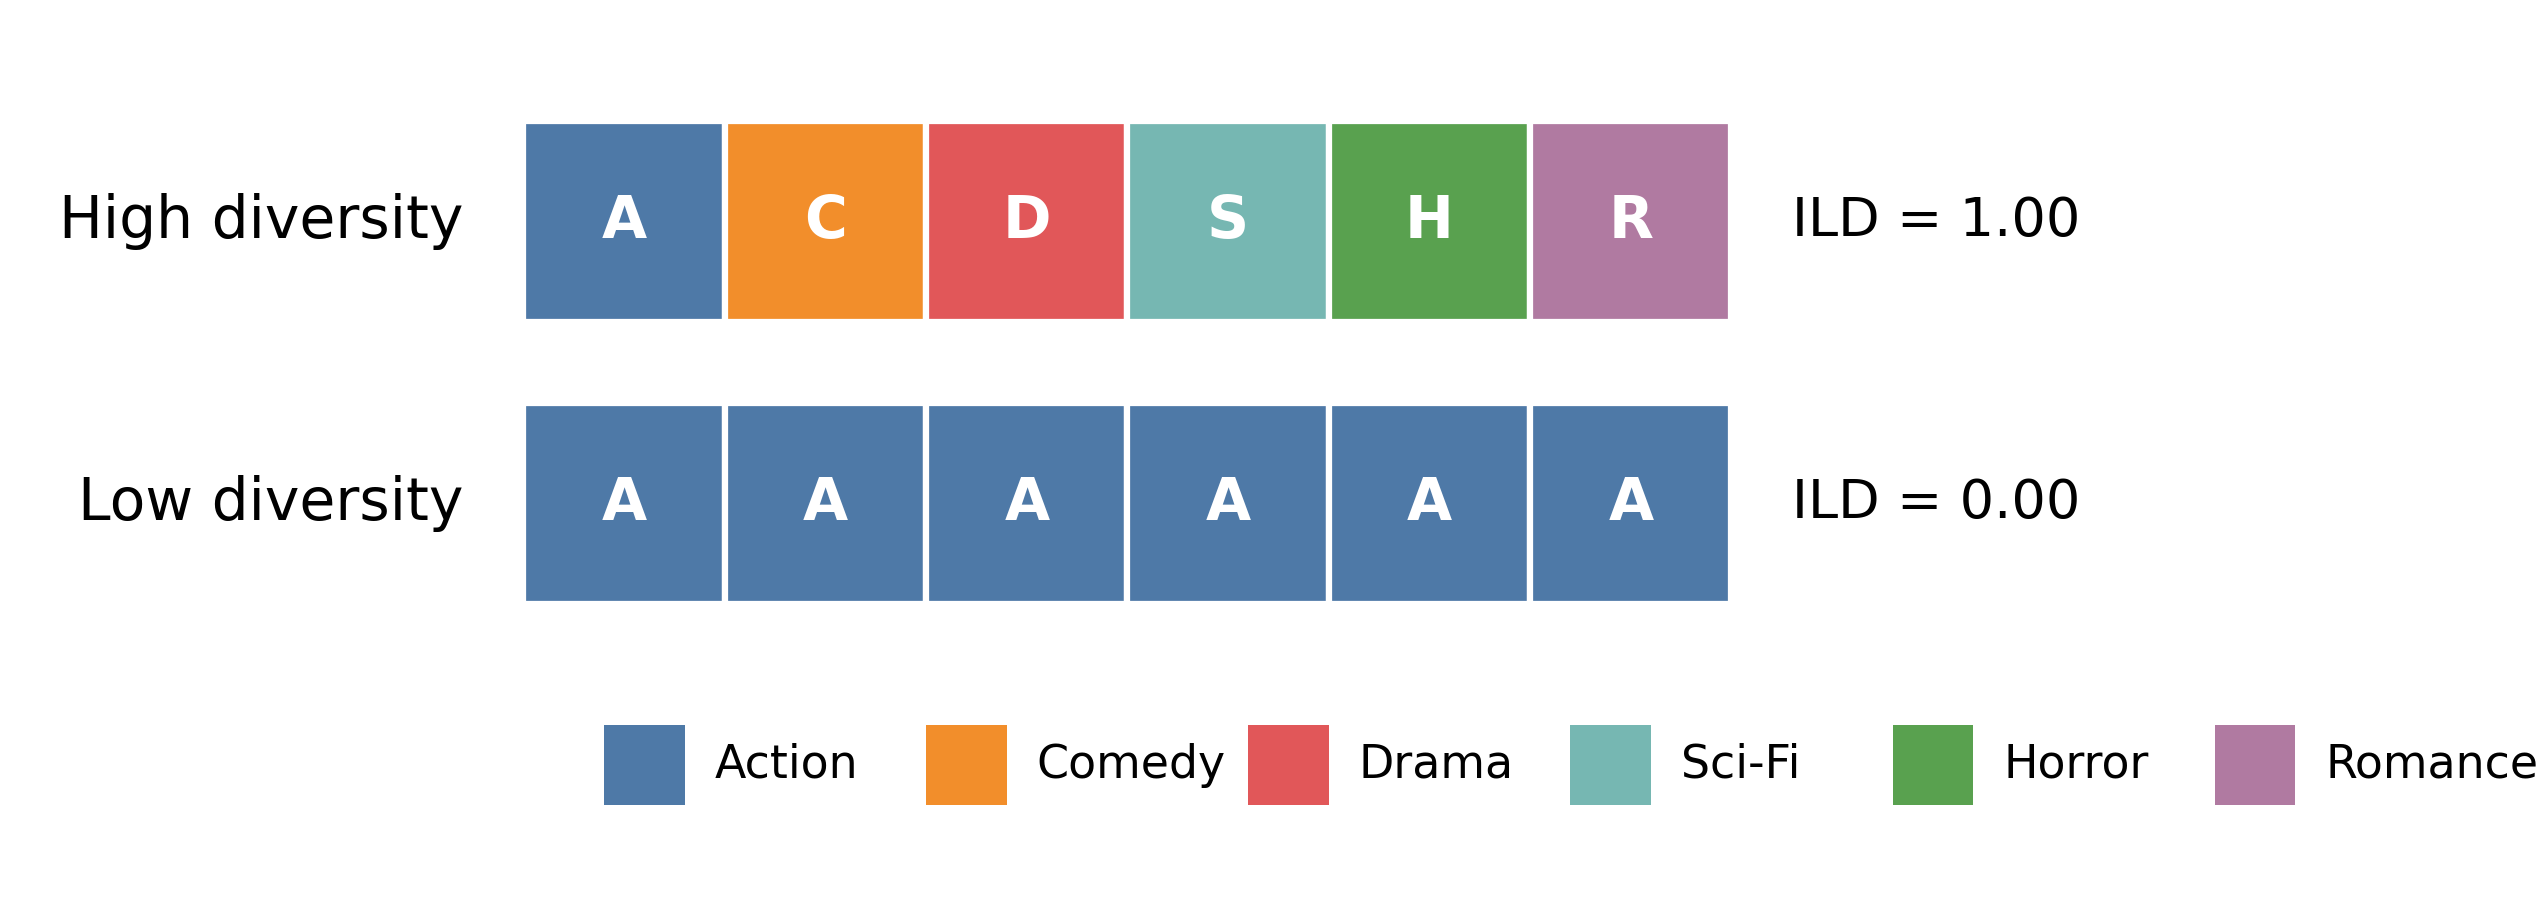
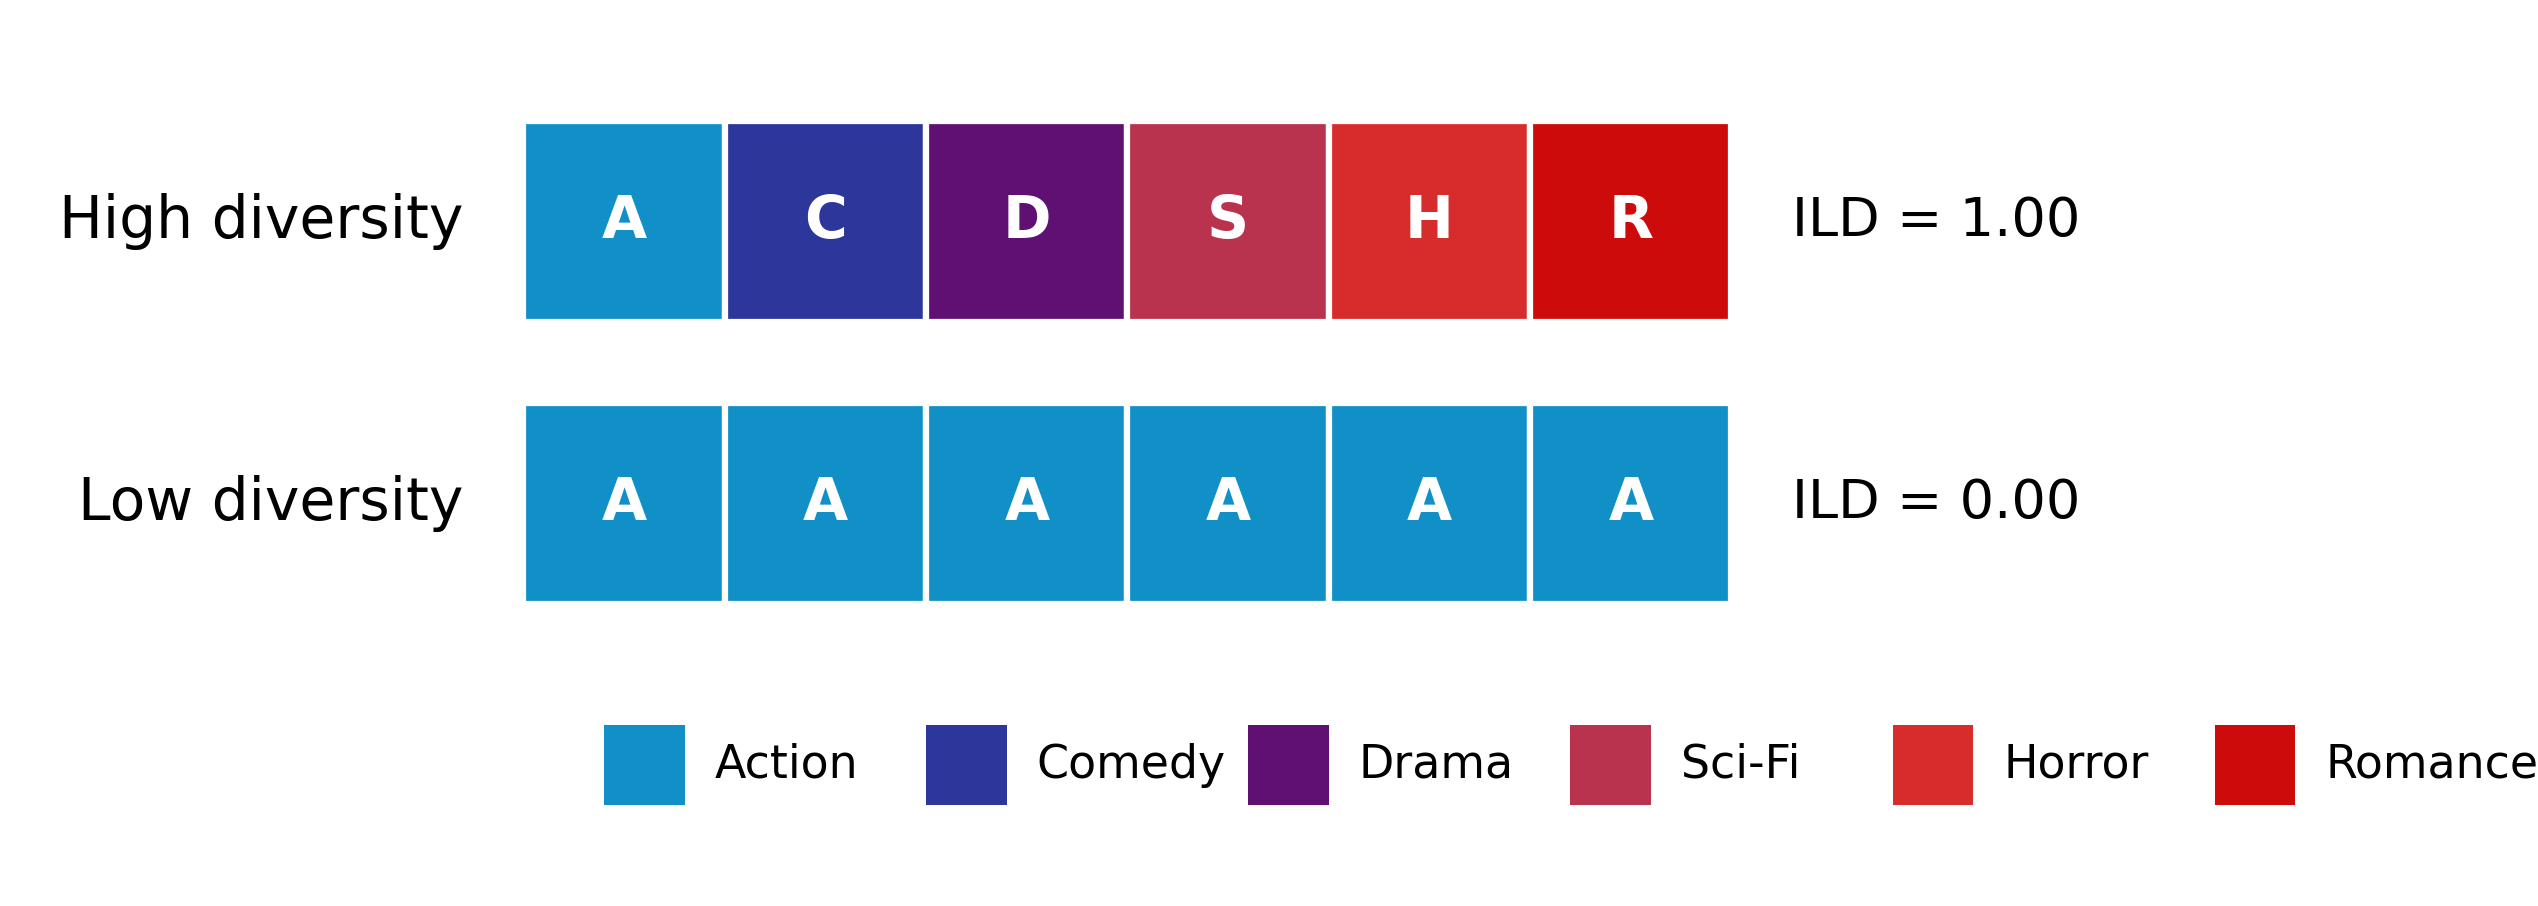
diversity plot: use nannyml gradient palette instead of tableau

diff --git a/notebooks/diversity_comparison_plot.py b/notebooks/diversity_comparison_plot.py
@@ -10,20 +10,17 @@ from pathlib import Path
 sys.path.insert(0, str(Path(__file__).parent))
 
 import numpy as np
+import matplotlib.colors as mcolors
 import matplotlib.pyplot as plt
 from matplotlib.patches import Rectangle
-from style import save_figure
+from style import nml_cmap, save_figure
 
 
-# Distinct categorical palette — Tableau-like, readable.
-GENRE_COLORS = {
-    "Action":  "#4E79A7",
-    "Comedy":  "#F28E2B",
-    "Drama":   "#E15759",
-    "Sci-Fi":  "#76B7B2",
-    "Horror":  "#59A14F",
-    "Romance": "#B07AA1",
-}
+# Sample six categorical colors from the NannyML gradient (cyan → purple →
+# red → dark red). Spread evenly so adjacent genres look distinct.
+GENRE_NAMES = ["Action", "Comedy", "Drama", "Sci-Fi", "Horror", "Romance"]
+_palette = [mcolors.to_hex(nml_cmap(t)) for t in np.linspace(0.05, 0.95, len(GENRE_NAMES))]
+GENRE_COLORS = dict(zip(GENRE_NAMES, _palette))
 
 
 def ild(genres):
